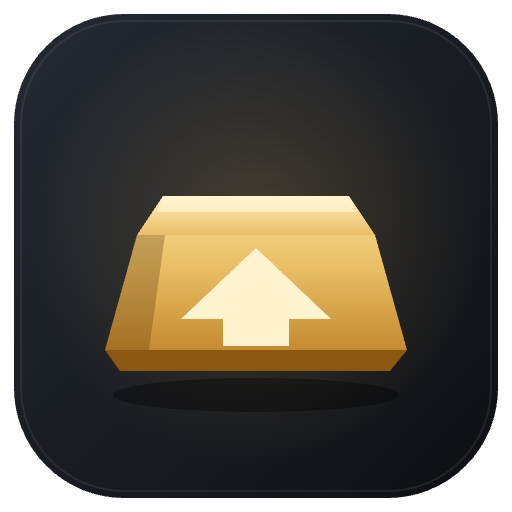
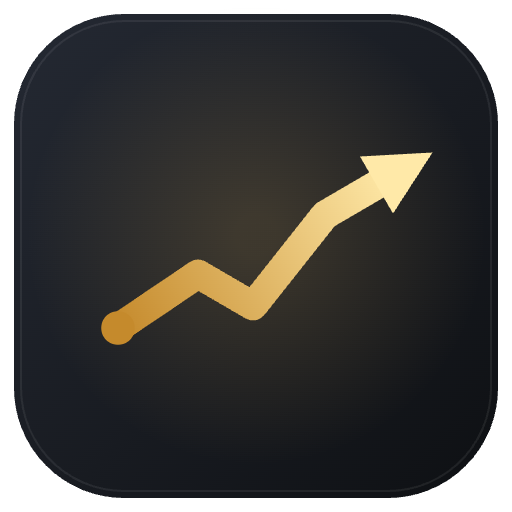
feat: 图标改为金色上涨折线
按选定方案重做主图标、Windows 托盘图和菜单栏模板，
四个安装包同步重打。

Changed region(s): [[0.1875, 0.2812, 0.8438, 0.75]]

diff --git a/docs/CHANGELOG.md b/docs/CHANGELOG.md
@@ -19,7 +19,7 @@
 
 ### 变更
 
-- **全套图标重做**：旧 `icon.png` 的 PNG 行宽编码损坏（Chromium 解码为空），换成本机脚本生成的 1024px 主图标（深色圆角底 + 金条 + 向上箭头）。Windows 托盘改用 64px「深色圆角底 + 金箭头」（金条细节在 16px 下糊成一团）；macOS 菜单栏模板改为圆角框 + 箭头，并按 1x/2x 两个分辨率显式加载。验证：解包 dmgs 的 `.icns` 与 Windows exe 内嵌 PNG 均确认是新图，asar 内 `tray-glyph.png` 存在。
+- **全套图标重做**：旧 `icon.png` 的 PNG 行宽编码损坏（Chromium 解码为空），换成本机脚本生成的 1024px 主图标（深色圆角底 + 金色上涨折线）。Windows 托盘用同款简化折线，线更粗、点数更少，缩到 16px 不糊；macOS 菜单栏模板是单色上斜折线，按 1x/2x 两个分辨率显式加载。验证：解包 dmgs 的 `.icns` 与 Windows exe 内嵌 PNG 均确认是新图，asar 内 `tray-glyph.png` 存在。
 - **刷新间隔收口为 5 秒–10 分钟**：下拉框改为 5 秒 / 10 秒 / 30 秒 / 1 分钟 / 2 分钟 / 5 分钟 / 10 分钟，去掉 1/2/3/8 秒，新增 10 分钟档；`ALLOWED_INTERVALS` 同步校验。修掉降频逻辑的边界：用户选 10 分钟时，连续失效不会再被 300 秒上限"降频"成 5 分钟，`backoffSeconds` 保证结果不小于用户设定值。验证：`verify:health` 新增 10 分钟档不回退断言。
 - **分时图最高/最低值改白色**：详情页图表右上的「低 xxx · 高 xxx」原来用灰色 `#7d7f86`，对比度偏低；按用户要求改成纯白，字号与等宽数字不变。
 - **中信费率与京东默认顺序**：中信积存金按用户核实改记点差 2.7 元/克（`asOf 2026-11-09`）；京东批量接口返回顺序不固定，且纯数字对象键会被 JS 按数值升序枚举导致民生（`21001001000001`）永远排最后，改为显式 `SKU_ORDER` 输出，默认顺序固定为浙商、民生、工商、广发、兴业、中信。验证：`verify:display` 新增乱序回填断言 + `npm run probe` 实测民生第二位。
